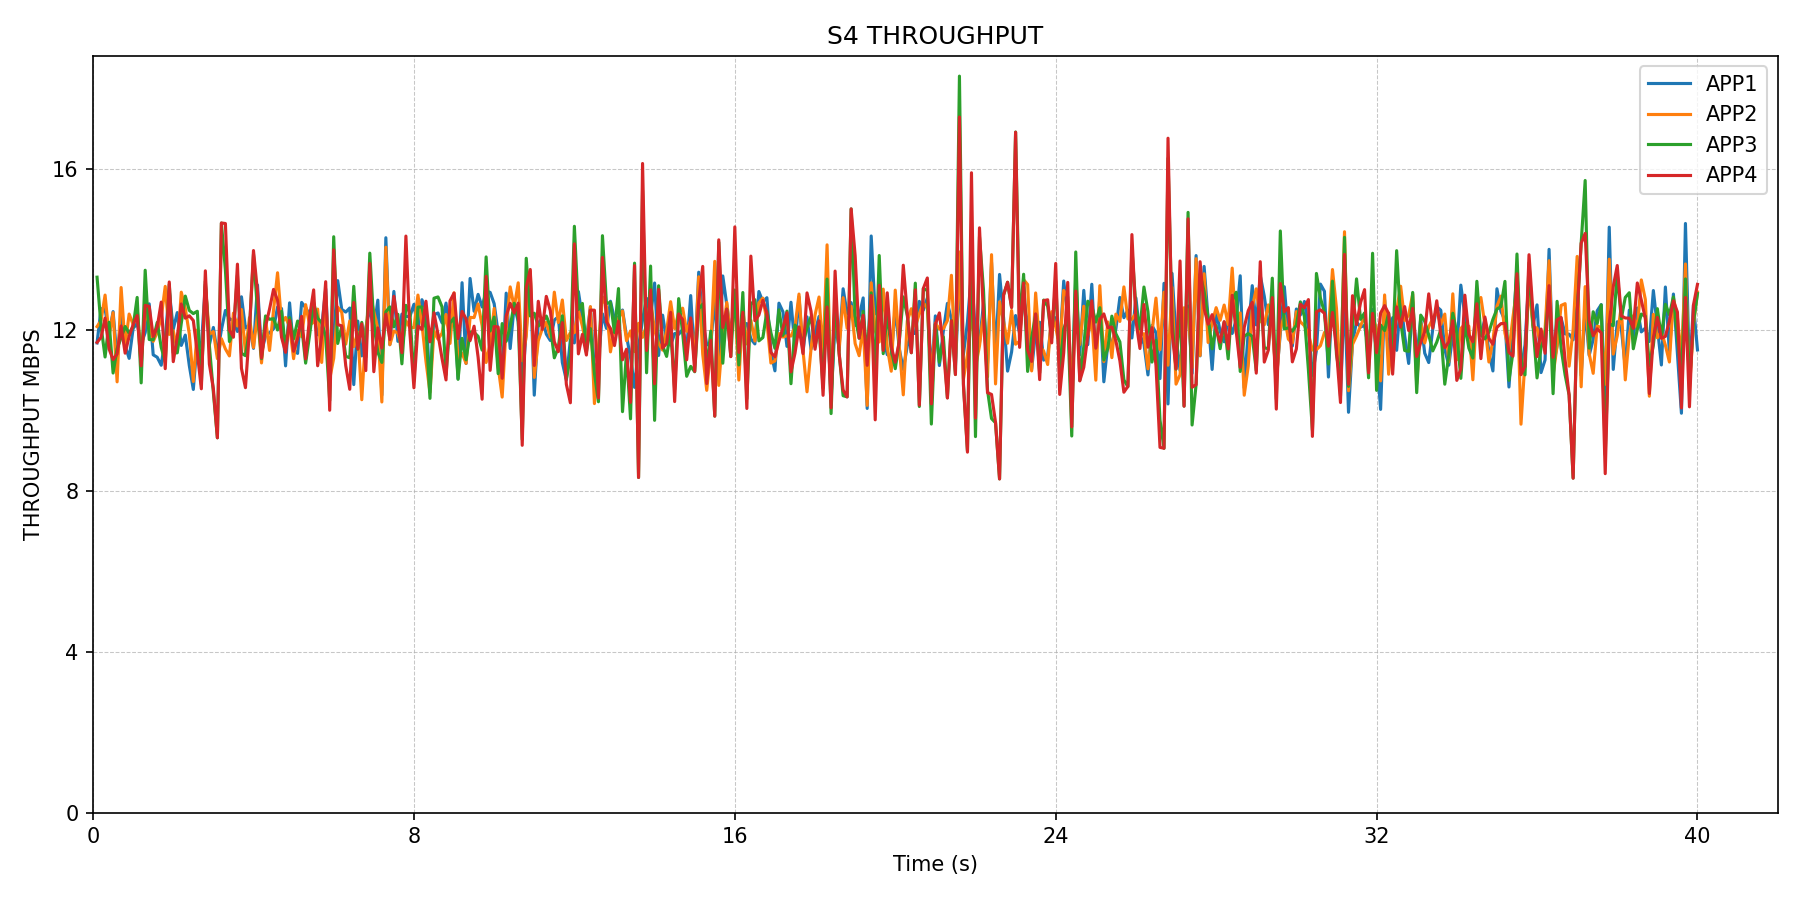
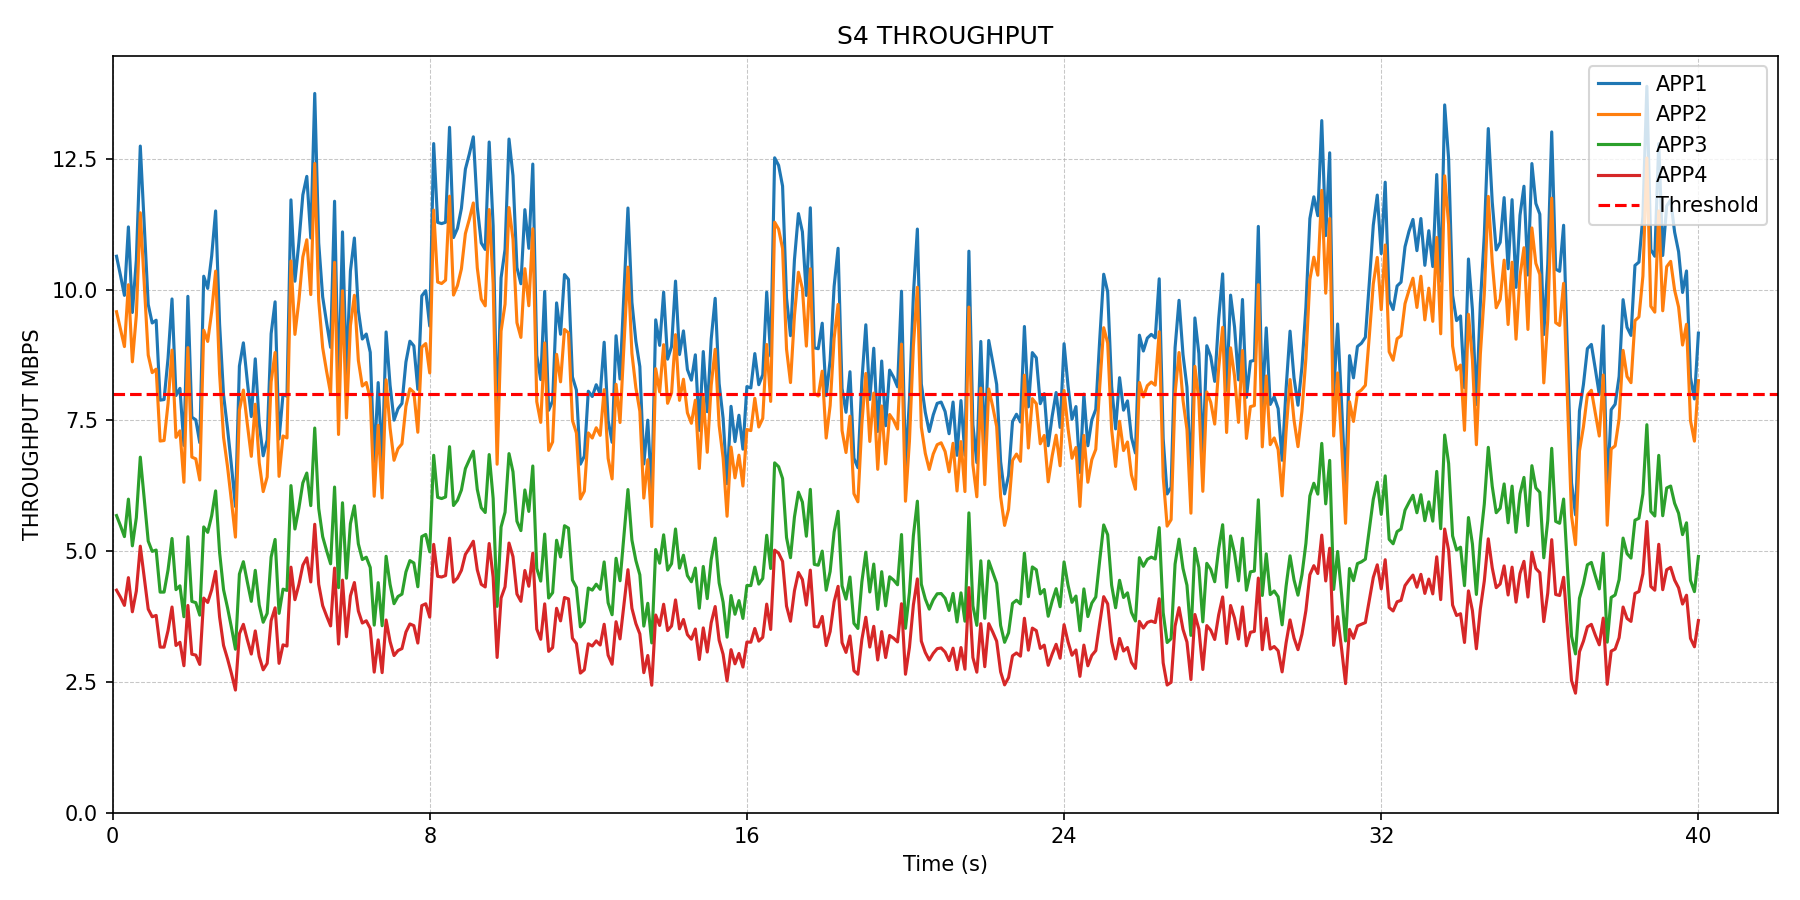
init

diff --git a/sim_sat_slice.py b/sim_sat_slice.py
@@ -30,7 +30,7 @@ WIN_P99 = 100  # Delay P99 window length
 THROUGHPUT_THRESHOLD_MBPS = 8.0
 DELAY_THRESHOLD_MS = 60.0
 
-RB_CAP = 36  # Available RB per TTI before jitter
+RB_CAP = 72  # Available RB per TTI before jitter
 B_R_MIN = 20e6  # Slice B minimum rate (bit/s)
 A_R_MIN = 24e6  # Slice A minimum rate (bit/s)
 PHI_REF_A = 800.0  # Reference spectral efficiency (bit/RB)
@@ -312,7 +312,6 @@ def render_line_chart(
             label=reference_label,
         )
 
-    ax.set_title(title)
     ax.set_xlabel("Time (s)")
     ax.set_ylabel(y_label)
     ax.set_xlim(left=0.0)
@@ -339,7 +338,7 @@ def plot_throughput(metrics: Metrics, outfile: str, scenario_label: str) -> None
         title=f"{scenario_label} THROUGHPUT",
         y_label="THROUGHPUT MBPS",
         reference_line=THROUGHPUT_THRESHOLD_MBPS,
-        reference_label="Threshold",
+        reference_label=f"{THROUGHPUT_THRESHOLD_MBPS:.0f} Mbps",
     )
 
 
@@ -447,8 +446,8 @@ def run_scenario(
 # Main entry point
 # ---------------------------------------------------------------------------
 def main() -> None:
-    scenario2_qualities = [1.1, 0.5]
-    scenario4_qualities = [1.1, 1.1, 0.5, 0.5]
+    scenario2_qualities = [1.5, 1.35]
+    scenario4_qualities = [1.5, 1.35, 0.8, 0.6]
 
     scenario2_stats = run_scenario(
         num_vr_apps=2,
